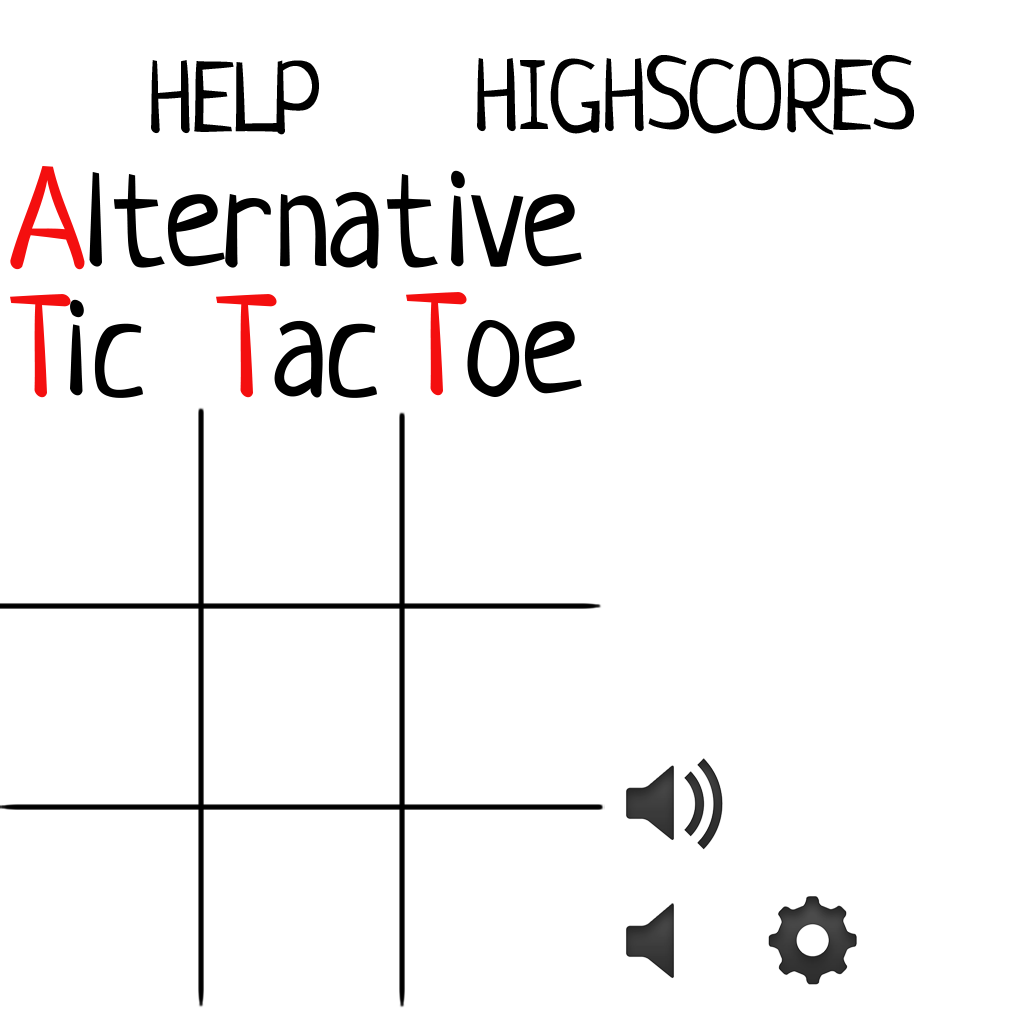
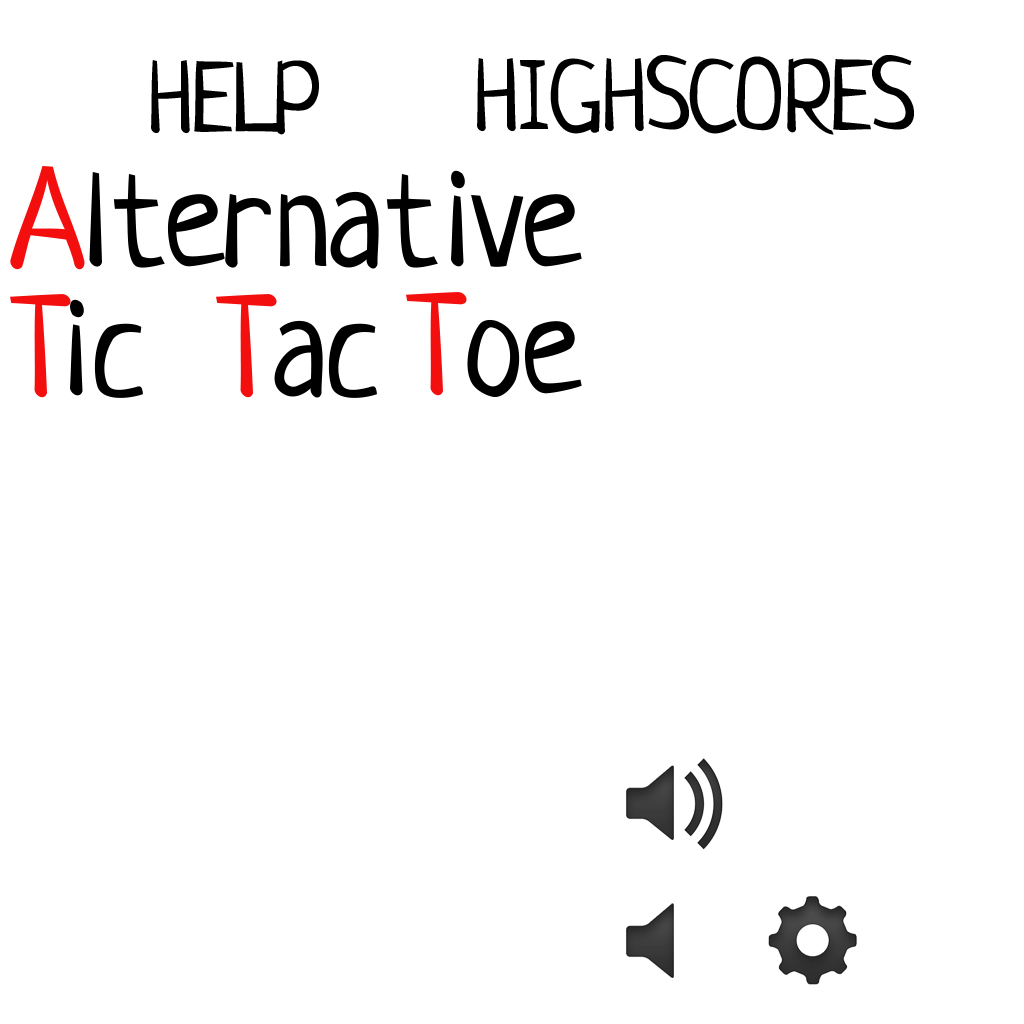
add fading when zoomed field shown

Changed region(s): [[0.0, 0.4062, 0.5938, 0.9688]]

diff --git a/src/ru/petrsu/attt/view/ZoomedField.java b/src/ru/petrsu/attt/view/ZoomedField.java
@@ -1,5 +1,6 @@
 package ru.petrsu.attt.view;
 
+import com.badlogic.gdx.graphics.Color;
 import com.badlogic.gdx.graphics.g2d.Sprite;
 import com.badlogic.gdx.graphics.g2d.SpriteBatch;
 import ru.petrsu.attt.Assets;
@@ -19,6 +20,8 @@ public class ZoomedField extends View {
     SmallFieldModel model;
     Sprite field;
     List<CrossZero> crossZeros;
+    private boolean isRenderer = true;
+    private Color color = Color.BLACK;
 
     public ZoomedField(SmallFieldModel model, Sprite field) {
         super(field.getWidth(), field.getHeight());
@@ -39,22 +42,23 @@ public class ZoomedField extends View {
 
     @Override
     public void draw(SpriteBatch spriteBatch) {
-        if (isShown) {
-            field.draw(spriteBatch);
-            for (int i = 0; i < 9; i++) {
-                crossZeros.get(i).draw(spriteBatch);
+        if (isRenderer) {
+                field.draw(spriteBatch);
+                for (int i = 0; i < 9; i++) {
+                    crossZeros.get(i).draw(spriteBatch);
+                }
             }
-        }
     }
 
     @Override
     public void update(float delta) {
         field.setPosition(x, y);
         field.setSize(width, height);
+        field.setColor(color);
         for (int i = 0; i < 9; i++) {
             CrossZero cz = crossZeros.get(i);
             cz.setPosition(x + (width / 3) * (i % 3),
-                    y + (height / 3) * (2 -(i / 3)));
+                    y + (height / 3) * (2 - (i / 3)));
             cz.setAbsoluteSize(width / 3, height / 3);
             switch (model.cells.get(i)) {
                 case SmallFieldModel.CROSS:
@@ -73,5 +77,17 @@ public class ZoomedField extends View {
 
     public void setModel(SmallFieldModel model) {
         this.model = model;
+    }
+
+    public boolean isRenderer() {
+        return isRenderer;
+    }
+
+    public void setRenderer(boolean renderer) {
+        isRenderer = renderer;
+    }
+
+    public void setColor(Color color) {
+        this.color = color;
     }
 }

diff --git a/src/ru/petrsu/attt/view/Field.java b/src/ru/petrsu/attt/view/Field.java
@@ -16,8 +16,7 @@ public class Field extends View {
     Sprite smallField;
     public List<SmallField> smallFields;
 
-
-    private MyInputProcessor inputProcessor = null;
+    private Color color = Color.BLACK;
 
     public Field(FieldModel model, Sprite fieldSprite) {
         super(fieldSprite.getWidth(), fieldSprite.getHeight());
@@ -38,33 +37,39 @@ public class Field extends View {
 
     @Override
     public void draw(SpriteBatch spriteBatch) {
-        if (isShown) {
-            for (int i = 0; i < 9; i++) {
-                smallFields.get(i).draw(spriteBatch);
-            }
-            field.setColor(Color.GREEN);
-            field.draw(spriteBatch);
+        for (int i = 0; i < 9; i++) {
+            smallFields.get(i).draw(spriteBatch);
         }
+        field.draw(spriteBatch);
     }
 
     @Override
     public void update(float delta) {
         field.setPosition(x, y);
         field.setSize(width, height);
+        field.setColor(color);
         for (int i = 0; i < 9; i++) {
             SmallField sf = smallFields.get(i);
             sf.setPosition(x + (width / 3) * (i % 3),
-                    y + (height / 3) * (2 -(i / 3)));
+                    y + (height / 3) * (2 - (i / 3)));
             sf.setAbsoluteSize(width / 3, height / 3);
             sf.update(delta);
         }
     }
 
+    public void setColor(Color color) {
+        this.color = color;
+    }
 
-    public void setInputProcessor(MyInputProcessor inputProcessor) {
-        this.inputProcessor = inputProcessor;
-        for (SmallField i : smallFields) {
-            inputProcessor.addView(i);
+    public void fade() {
+        for (SmallField sf : smallFields) {
+            sf.fade();
+        }
+    }
+
+    public void unFade() {
+        for (SmallField sf : smallFields) {
+            sf.unfade();
         }
     }
 }

diff --git a/src/ru/petrsu/attt/screens/GameScreen.java b/src/ru/petrsu/attt/screens/GameScreen.java
@@ -70,7 +70,8 @@ public class GameScreen implements Screen {
         spriteBatch.begin();
         background.draw(spriteBatch);
         backButton.draw(spriteBatch);
-        currentField.draw(spriteBatch);
+        field.draw(spriteBatch);
+        zoomedField.draw(spriteBatch);
         spriteBatch.end();
     }
 
@@ -169,7 +170,7 @@ public class GameScreen implements Screen {
     }
 
     private void zoomedFieldClick(View view, int row, int column) {
-        if (chechCell(row, column)) {
+        if (checkCell(row, column)) {
             field.smallFields.get(model.activeFieldRow * 3 + model.activeFieldColumn).setNormal();
             if (currentPlayer == crossPlayer) {
                 model.update(SmallFieldModel.CROSS, row, column);
@@ -183,7 +184,7 @@ public class GameScreen implements Screen {
         }
     }
 
-    private boolean chechCell(int row, int column) {
+    private boolean checkCell(int row, int column) {
         int aRow = model.activeFieldRow;
         int aColumn = model.activeFieldColumn;
         if (SmallFieldModel.NONE == model.sfs.get(aRow * 3 + aColumn).
@@ -203,12 +204,15 @@ public class GameScreen implements Screen {
     }
 
     private void changeField(View field) {
-        currentField = field;
         if (field.id == this.field.id) {
+            this.field.unFade();
+            zoomedField.setRenderer(false);
             Gdx.input.setInputProcessor(fieldInput);
         }
 
         if (field.id == this.zoomedField.id) {
+            this.field.fade();
+            zoomedField.setRenderer(true);
             Gdx.input.setInputProcessor(zoomedFieldInput);
         }
     }

diff --git a/src/ru/petrsu/attt/view/SmallField.java b/src/ru/petrsu/attt/view/SmallField.java
@@ -120,4 +120,25 @@ public class SmallField extends View {
     public void setNormal() {
         this.color = Color.LIGHT_GRAY;
     }
+
+    public void fade() {
+        for(CrossZero cz : crossZeros) {
+            cz.fade();
+        }
+        Color newColor = new Color(this.color.r,
+                this.color.g,
+                this.color.b,
+                Assets.FADE_VALUE);
+        setColor(newColor);
+    }
+    public void unfade() {
+        for (CrossZero cz : crossZeros) {
+            cz.unFade();
+        }
+        Color newColor = new Color(this.color.r,
+                this.color.g,
+                this.color.b,
+                1);
+        setColor(newColor);
+    }
 }

diff --git a/src/ru/petrsu/attt/view/CrossZero.java b/src/ru/petrsu/attt/view/CrossZero.java
@@ -68,4 +68,20 @@ public class CrossZero extends View {
 
         this.cell = cell;
     }
+
+    public void fade() {
+        Color newColor = new Color(this.color.r,
+                this.color.g,
+                this.color.b,
+                Assets.FADE_VALUE);
+        setColor(newColor);
+    }
+
+    public void unFade() {
+        Color newColor = new Color(this.color.r,
+                this.color.g,
+                this.color.b,
+                1);
+        setColor(newColor);
+    }
 }

diff --git a/src/ru/petrsu/attt/Assets.java b/src/ru/petrsu/attt/Assets.java
@@ -19,6 +19,7 @@ public class Assets {
     public static final int VIRTUAL_HEIGHT = 1280;
     public static final String SETTINGS = "settings";
     public static final String SOUND = "sound";
+    public static final float FADE_VALUE = 0.2f;
     //Textures
     public static Texture background;
     public static TextureRegion logo;
